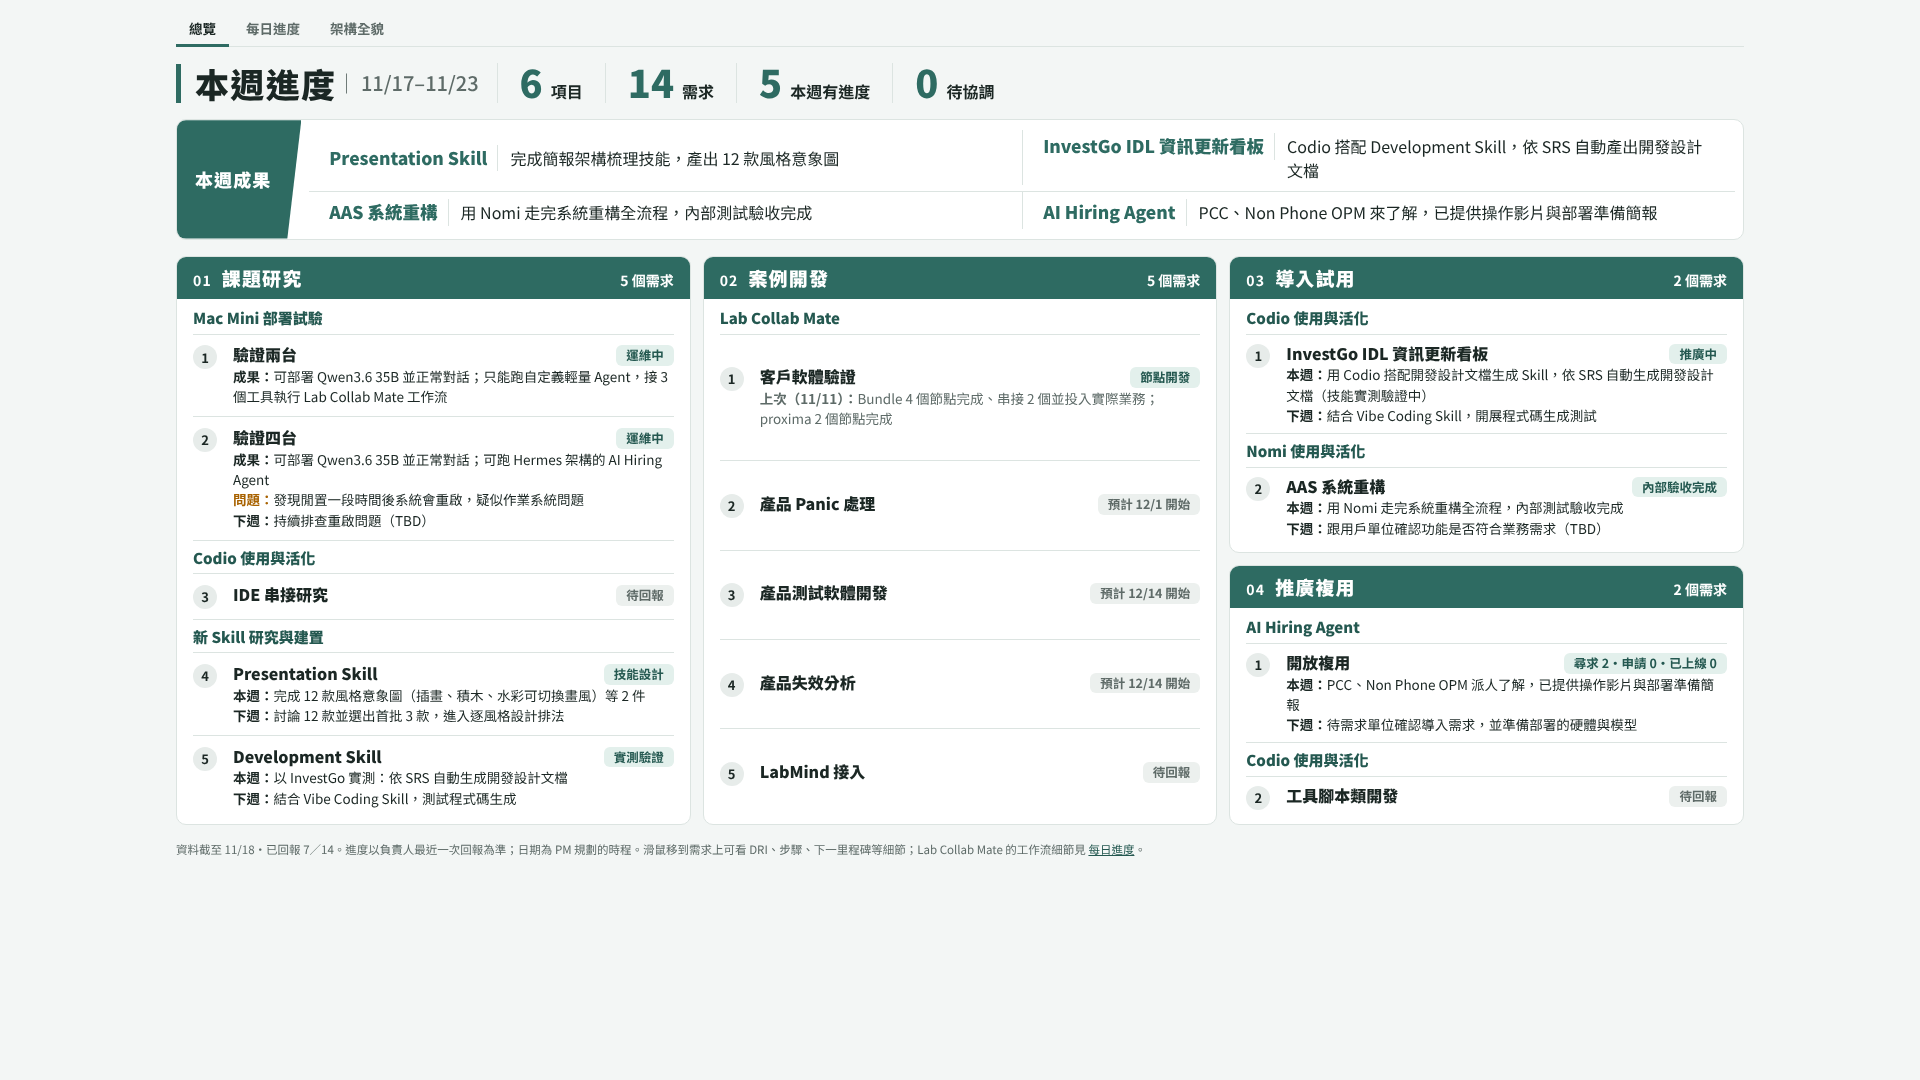
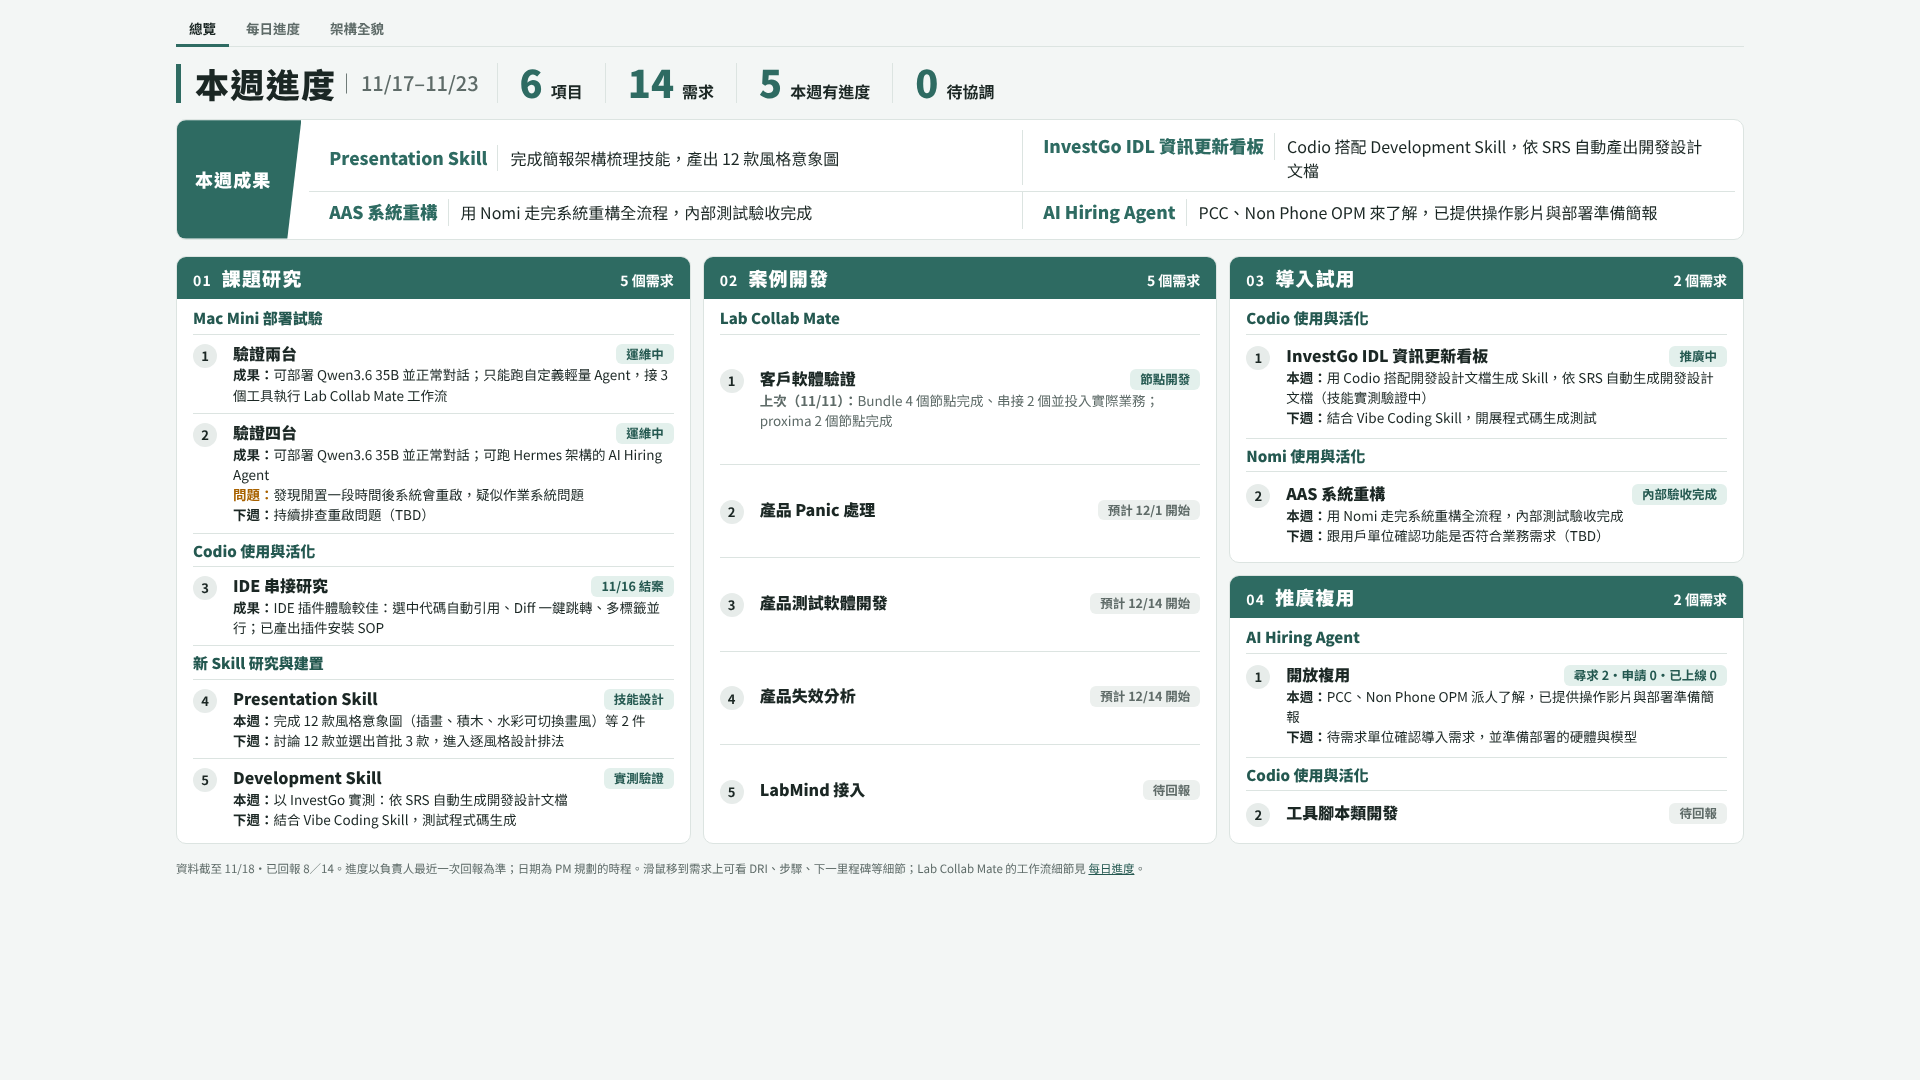
[2026-11-17_overview-redesign] IDE 串接研究 11/16 結案：寫入結論與簡報摘要（不放原檔）
Claude-Session: https://claude.ai/code/session_01Cd6Gft6mTX8zcMZinAmXya

diff --git a/public/index.html b/public/index.html
@@ -192,7 +192,9 @@ const MODULES = [
      desc:"硬體：Mac mini 24G × 4，雷靂 5 全互聯。已部署 Qwen3.6 35B A3B（4-bit），進入部署後運維。記憶體：只跑模型單機 13G；跑 AI Hiring Agent 單機 26G（超過實體 24G，會用到 Swap）。",
      rep:{pill:"運維中", conclusion:"可部署 Qwen3.6 35B 並正常對話；可跑 Hermes 架構的 AI Hiring Agent",
           issue:"發現閒置一段時間後系統會重啟，疑似作業系統問題", next:["持續排查重啟問題（TBD）"]}},
-    {proj:"Codio 使用與活化", name:"IDE 串接研究", type:"research", dri:null, q:"從 IDE 使用 Codio 與直接使用的差異", rep:null},
+    {proj:"Codio 使用與活化", name:"IDE 串接研究", type:"research", dri:null, q:"從 IDE 使用 Codio 與直接使用的差異",
+     desc:"比較 Codio 的 IDE 插件與原生 TUI：插件在上手、多會話、閱讀輸出、選中代碼、引用檔案、跳回代碼都較直覺；TUI 把操作留在鍵盤上。產出 IDE 插件安裝 SOP（5 步）。11/16 結案，沒有規劃下一步。",
+     rep:{pill:"11/16 結案", conclusion:"IDE 插件體驗較佳：選中代碼自動引用、Diff 一鍵跳轉、多標籤並行；已產出插件安裝 SOP"}},
     {proj:"新 Skill 研究與建置", name:"Presentation Skill", type:"deliver", dri:"Alyanna", steps:SKILL, rel:"之後接上 Nomi",
      sub:{at:2, items:["目標／對象／架構／內容梳理","風格與排版","品管與檢查驗證"]},
      desc:"技能名 deck-architect（從頭到尾支援簡報全流程的 Skill）。進度來源：claude-base-skills repo 的 presentation-skill-generation 分支。目前在技能設計：方法論已用 4 份真實簡報驗證，正在做設計美感的風格定調；尚未用真實簡報從頭做到成品。",

diff --git a/work/2026-11-17_overview-redesign/inputs/SUMMARY_Codio-IDE插件vsTUI簡報.md b/work/2026-11-17_overview-redesign/inputs/SUMMARY_Codio-IDE插件vsTUI簡報.md
@@ -1,0 +1,24 @@
+# 摘要：Codio IDE 插件 vs 原生 TUI（IDE 串接研究）
+
+> 來源：使用者 2026-11-18 提供的內部簡報（5 頁，pptx）＋使用者口述。依專案規則，repo 只存文字摘要，不放原檔。
+
+## 使用者口述
+
+- 這是 Codio「IDE 串接研究」的成果，**11/16 已結案，沒有規劃下一步**。
+
+## 簡報重點
+
+- 題目：Codio 在 IDE 插件與原生 TUI 中的體驗差異。
+- **結論**：最大差異在「代碼 ⇄ 對話」的連接，插件讓選中、引用、跳轉一氣呵成。「插件把交互變成看得見，TUI 把操作留在鍵盤上。」
+
+| 維度 | IDE 插件 | 原生 TUI |
+|---|---|---|
+| 上手 | 按鈕、下拉選單，幾乎零學習 | 斜線命令＋快速鍵 |
+| 多會話 | 多標籤並行，互不打斷 | 一次一個會話，靠切換 |
+| 閱讀輸出 | Markdown 渲染、思考可折疊、Diff 卡片 | 字元介面捲動 |
+| 審批與問答 | 彈窗卡片、分步表單 | 行內鍵盤確認 |
+| 選中代碼 | 選取後自動帶入當上下文 | 感知不到編輯器 |
+| 引用檔案 | @ 模糊搜尋，顯示為檔案標籤 | @ 搜尋，純文字路徑 |
+| 跳回代碼 | 點擊直達對應行，對比視圖看改動 | 要自己去找檔案 |
+
+- **產出**：IDE 插件安裝 SOP（5 步）：準備環境（安裝並登入 Codio）→ 安裝插件（擴充市場搜尋、重啟 IDE）→ 首次設定（Opencode Path 改成 codio）→ 設定模型（新增自訂模型 codio-model）→ 開始使用（選中代碼提問、多標籤並行）。
